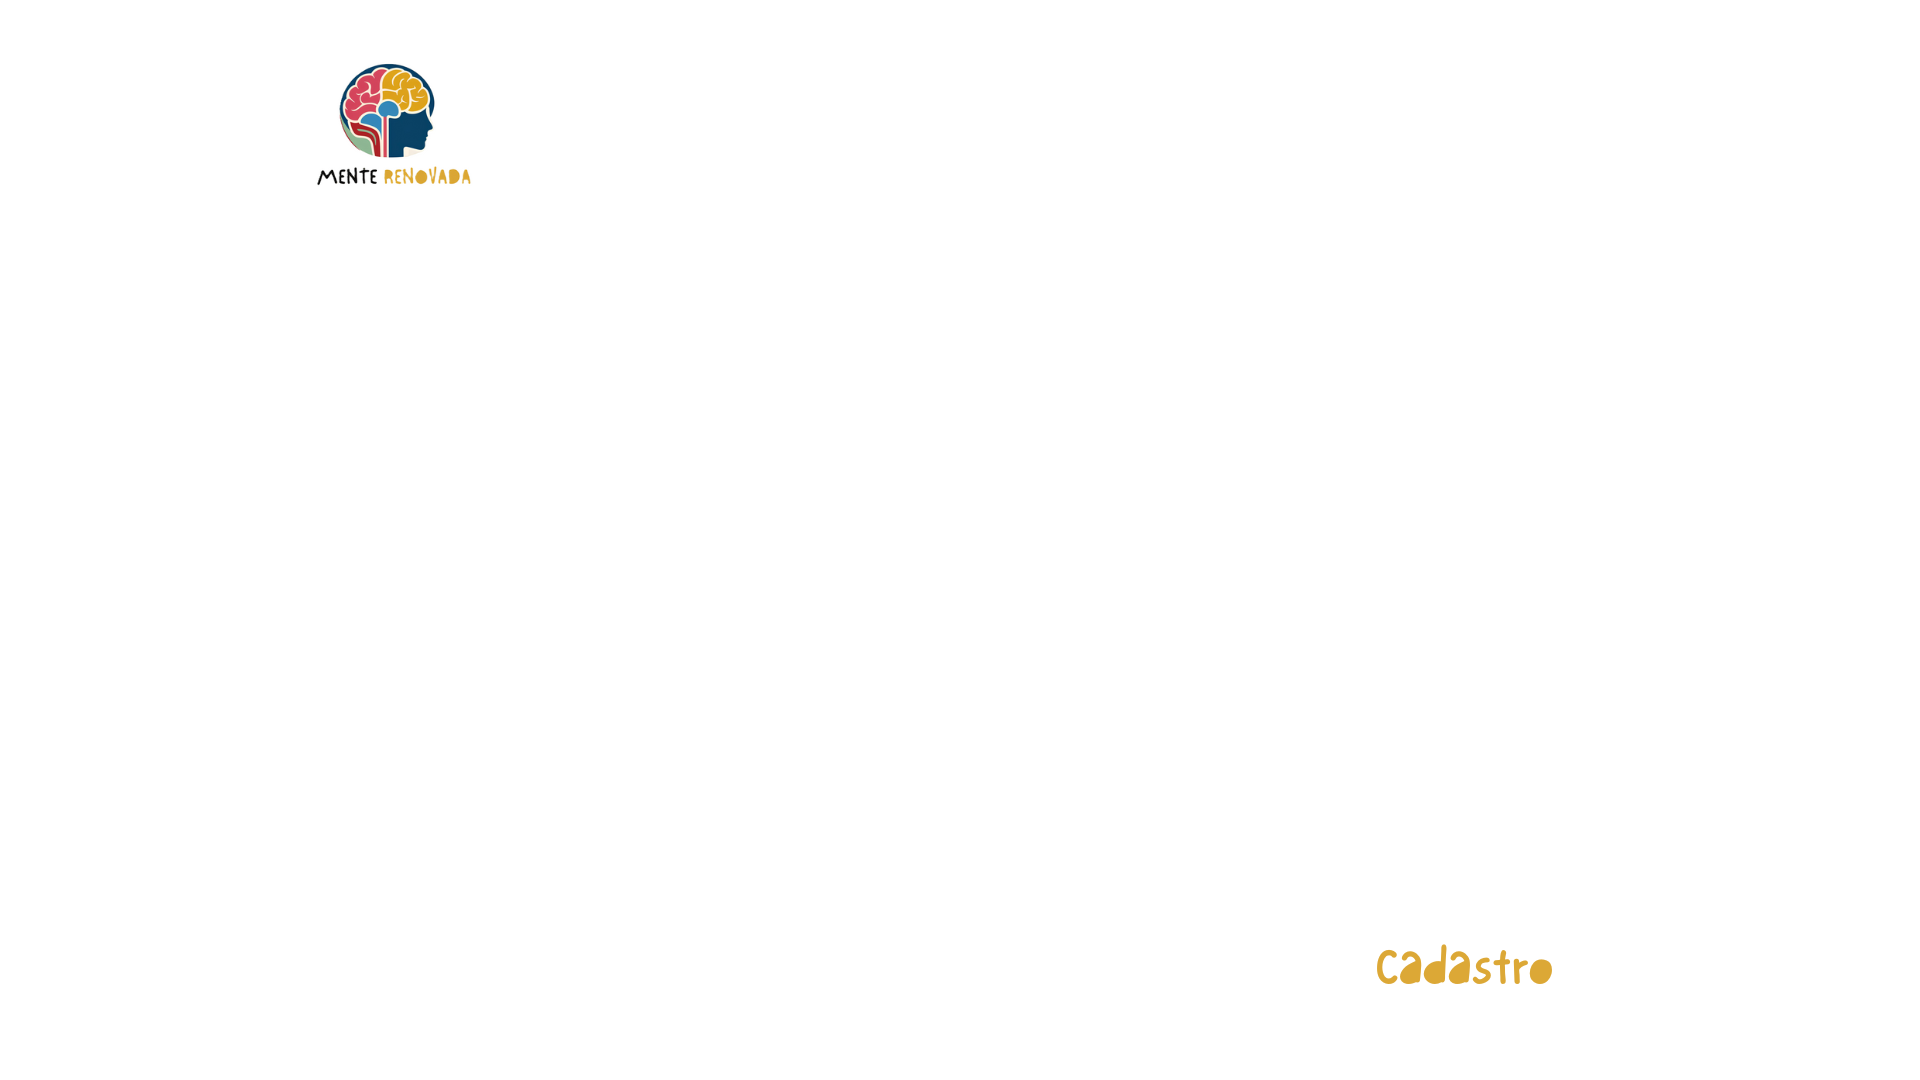
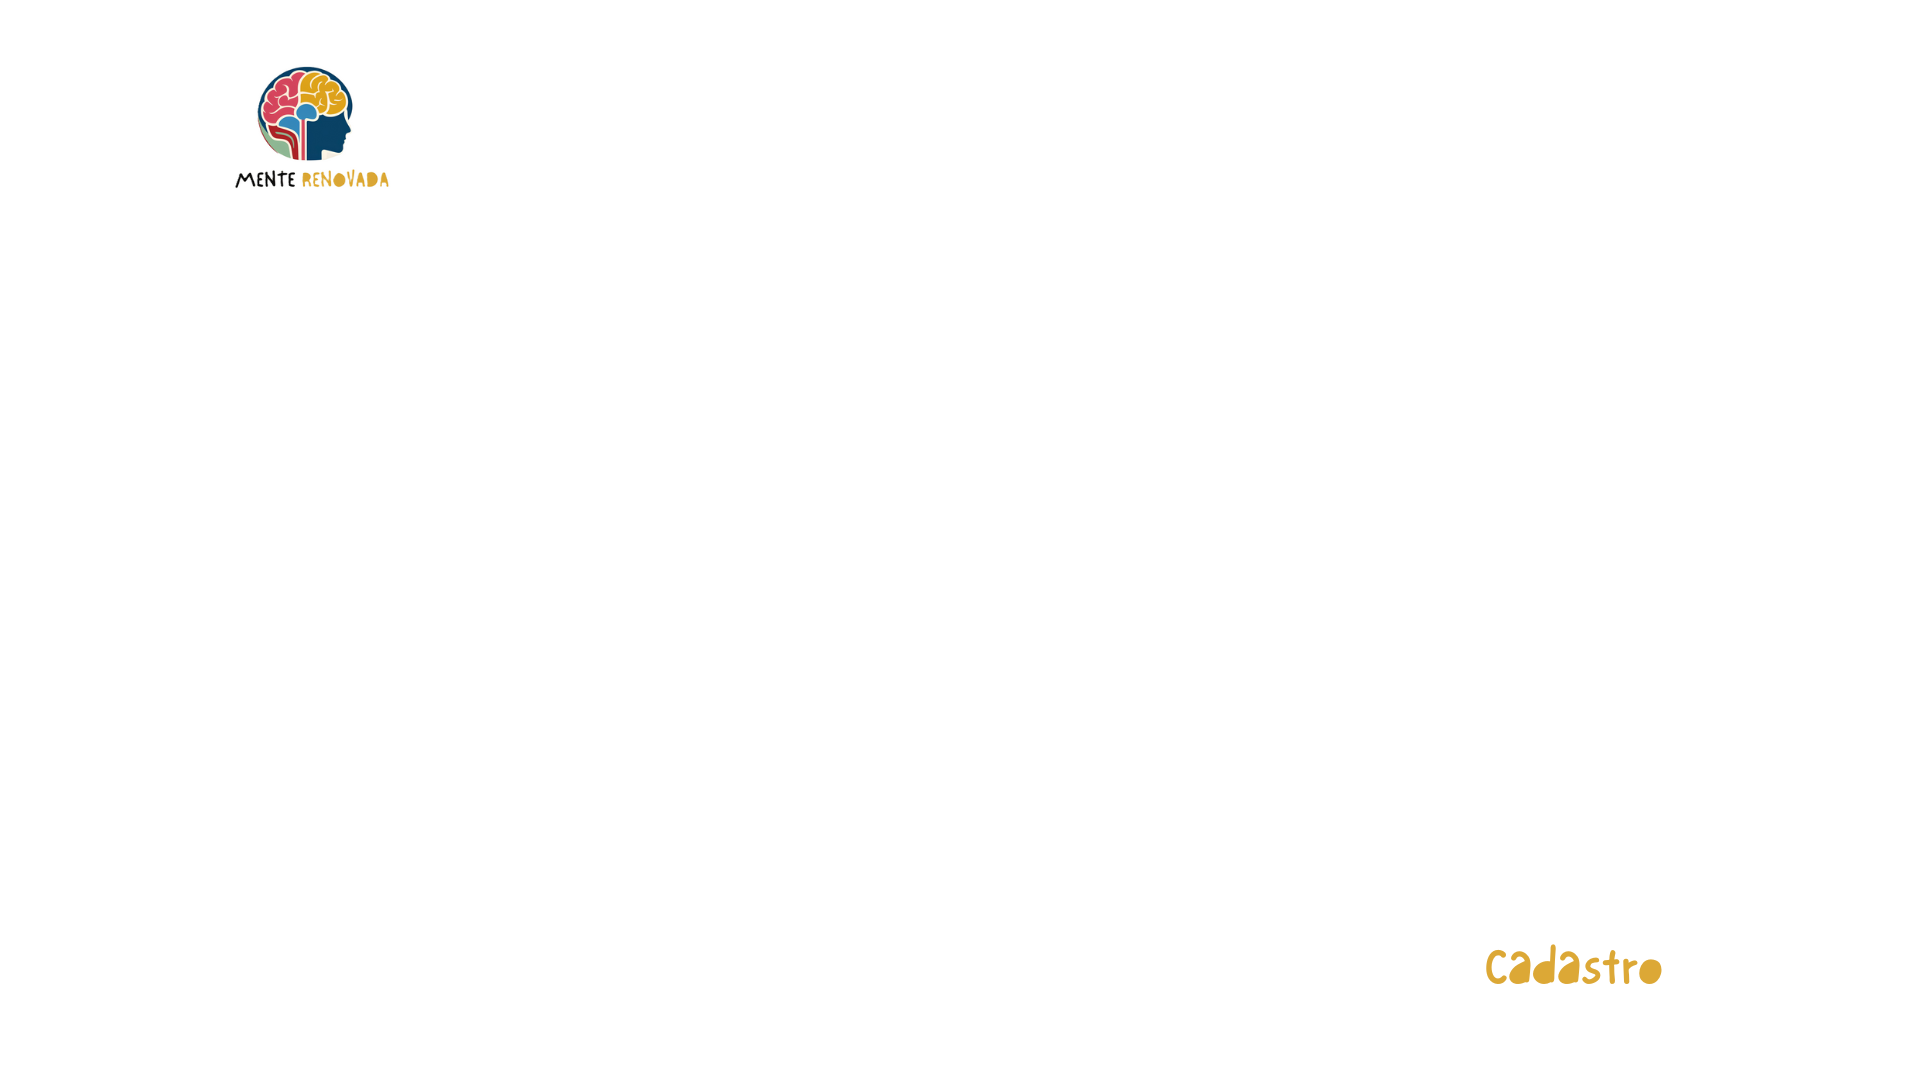
Novas imagens adiiconadas ao projeto e centralização do itens do navbar concluídos

Changed region(s): [[0.125, 0.0611, 0.25, 0.1833], [0.7188, 0.8556, 0.875, 0.9167]]

diff --git a/menu_publico.php b/menu_publico.php
@@ -81,50 +81,46 @@ if (isset($_SESSION['login_admin'])) {
   }
 
   body {
-    padding-top: 90px;
+    padding-top: 120px;
   }
+
 
   .navbar {
     position: fixed;
     top: 0;
-    left: 0;
     width: 100%;
-    height: 90px;
-    display: grid;
-    grid-template-columns: 1fr auto 1fr;
-    align-items: center;
     background-color: rgba(255, 255, 255, 0.95);
     box-shadow: 0 2px 6px rgba(0, 0, 0, 0.1);
-    padding: 0 2rem;
     z-index: 1000;
+    padding: 0.5rem 1rem;
   }
 
-  .navbar-right {
-    display: flex;
-    align-items: center;
-    justify-content: flex-end;
-    padding-left: 2rem;
-    /* espaçamento à esquerda do ícone */
-  }
 
-  .navbar-left,
-
-  /* Logo animação */
-  .navbar-left a img {
-    height: 80px;
+  /* LOGO DA MENTE RENOVADA */
+  .navbar-brand img {
+    height: 90px;
     object-fit: contain;
     transition: transform 0.3s ease-in-out, filter 0.3s ease-in-out;
   }
 
-  .navbar-left a img:hover {
+  .navbar-brand img:hover {
     transform: scale(1.1);
     filter: drop-shadow(0 0 10px #DBA632);
   }
 
-  /* Animação da imagem de Perfil */
+  .nav-link {
+    font-weight: bold;
+    color: #333 !important;
+    transition: color 0.3s;
+  }
+
+  .nav-link:hover {
+    color: #DBA632 !important;
+  }
+
   .perfil-img {
-    width: 40px;
-    height: 40px;
+    width: 50px;
+    height: 50px;
     border-radius: 50%;
     transition: transform 0.3s ease, box-shadow 0.3s ease;
   }
@@ -134,72 +130,22 @@ if (isset($_SESSION['login_admin'])) {
     box-shadow: 0 0 10px rgba(219, 166, 50, 0.5);
   }
 
-
-  .navbar-center {
-    display: flex;
-    justify-content: center;
-  }
-
-  .navbar-center ul {
-    display: flex;
-    gap: 2rem;
-    list-style: none;
-    margin: 0;
-    padding: 0;
-  }
-
-  .navbar-center .nav-link {
-    font-weight: bold;
-    color: #333 !important;
-    text-decoration: none;
-    transition: color 0.3s;
-  }
-
-  .navbar-center .nav-link:hover {
-    color: #DBA632 !important;
-  }
-
-  .nav-buttons {
-    display: flex;
-    align-items: center;
-    gap: 1rem;
-  }
-
-  /* Animação do botão de login */
+  .registrar-text,
   .login-text {
     font-size: 15px;
-    background-color: white;
-    color: #DBA632;
     padding: 0.6rem 1.2rem;
     border-radius: 160px;
     border: 2px solid #DBA632;
     display: flex;
     align-items: center;
     gap: 0.4rem;
-    transition: all 0.3s ease-in-out;
     font-weight: bold;
+    transition: all 0.3s ease-in-out;
   }
 
-  .login-text:hover {
+  .registrar-text {
     background-color: #DBA632;
     color: white;
-    transform: scale(1.05);
-    box-shadow: 0 0 10px rgba(219, 166, 50, 0.5);
-  }
-
-  /* Animação do botão registre-se */
-  .registrar-text {
-    font-size: 15px;
-    background-color:  #DBA632;
-    color: white;
-    padding: 0.6rem 1.2rem;
-    border-radius: 160px;
-    border: 2px solid #DBA632;
-    display: flex;
-    align-items: center;
-    gap: 0.4rem;
-    transition: all 0.3s ease-in-out;
-    font-weight: bold;
   }
 
   .registrar-text:hover {
@@ -209,132 +155,120 @@ if (isset($_SESSION['login_admin'])) {
     box-shadow: 0 0 10px rgba(219, 166, 50, 0.5);
   }
 
-  .navbar-right img {
-    border-radius: 50%;
-    width: 50px;
-    height: 50px;
-    object-fit: cover;
+  .login-text {
+    background-color: white;
+    color: #DBA632;
   }
 
-  /* Responsivo */
-  @media (max-width: 768px) {
-    .navbar {
-      grid-template-columns: 1fr auto 1fr;
-      flex-wrap: wrap;
-      height: auto;
-      padding: 1rem;
+  .login-text:hover {
+    background-color: #DBA632;
+    color: white;
+    transform: scale(1.05);
+    box-shadow: 0 0 10px rgba(219, 166, 50, 0.5);
+  }
+
+  /* RESPONSIVIDADE */
+  @media (max-width: 991.98px) {
+    .navbar-collapse {
+      display: flex;
+      flex-direction: column;
+      align-items: center;
+      background-color: white;
+      padding: 2rem 1rem;
+      border-radius: 12px;
+      margin-top: 1rem;
     }
 
-    .navbar-center ul {
-      flex-direction: column;
+    .navbar-brand img {
+      height: 40px;
+      margin-left: 1rem;
+    }
+
+    .navbar-nav {
+      flex-direction: column !important;
+      align-items: center;
       gap: 1rem;
     }
 
     .nav-buttons {
-      flex-direction: column;
+      flex-direction: column !important;
+      gap: 0.8rem;
+      margin-top: 1.5rem;
+      width: 100%;
+      align-items: center;
+    }
+
+    .registrar-text,
+    .login-text {
+      width: 100%;
+      justify-content: center;
+      font-size: 14px;
+      padding: 0.6rem 1rem;
+    }
+
+    .navbar-toggler {
+      margin-right: 1rem;
+    }
+
+    .nav-link {
+      font-size: 16px;
     }
   }
-
-  /* Centraliza o conteúdo do modal */
-.modal-content {
-  border-radius: 20px;
-  padding: 2rem;
-  backdrop-filter: blur(5px);
-}
-
-/* Imagem da logo */
-.modal-body img {
-  max-height: 80px;
-  margin-bottom: 1rem;
-}
-
-/* Estiliza os campos de input */
-.modal-body .form-control {
-  border-radius: 30px;
-  padding: 0.8rem 1.2rem;
-  font-size: 1rem;
-  background-color: rgba(255, 255, 255, 0.85);
-}
-
-/* Estiliza os ícones */
-.input-group-text {
-  border-radius: 30px 0 0 30px;
-  background-color: #DBA632;
-  color: white;
-  border: none;
-}
-
-/* Botão de entrar */
-.modal-body button.btn {
-  border-radius: 30px;
-  font-weight: bold;
-  padding: 0.6rem 1.5rem;
-  transition: all 0.3s ease;
-}
-
-.modal-body button.btn:hover {
-  opacity: 0.9;
-  transform: scale(1.05);
-}
-
-/* Corrige espaçamento entre campos */
-.modal-body .input-group {
-  margin-bottom: 1.2rem;
-}
-
-/* Link de cadastro */
-.modal-body p a {
-  text-decoration: none;
-  font-weight: bold;
-}
-
 </style>
 
-<nav class="navbar">
-  <!-- LOGO -->
-  <div class="navbar-left">
-    <a href="index.php">
-      <img src="image/MENTE_RENOVADA-LOGO.png" alt="Logo" />
-    </a>
-  </div>
+<!-- NAVBAR -->
+<nav class="navbar navbar-expand-lg navbar-light bg-white mx-auto">
+  <div class="container-fluid">
 
-  <!-- MENU CENTRAL -->
-  <div class="navbar-center">
-    <ul>
-      <li><a class="nav-link" href="index.php">Início</a></li>
-      <li><a class="nav-link" href="sessao.php">Sessões</a></li>
-      <li><a class="nav-link" href="paciente.php">Pacientes</a></li>
-    </ul>
-  </div>
+    <div class="collapse navbar-collapse" id="navbarSupportedContent">
+      <div class="d-flex align-items-center justify-content-between w-100">
 
-  <!-- LOGIN ou FOTO -->
-  <div class="navbar-right">
-    <?php if (!isset($_SESSION['login_admin'])): ?>
-      <div class="nav-buttons">
-        <a class="nav-link registrar-btn" data-bs-toggle="modal" data-bs-target="#modalRegistro">
-          <span class="registrar-text"><i class="bi bi-person-plus-fill"></i> Registre-se</span>
-        </a>
-        <a class="nav-link" data-bs-toggle="modal" data-bs-target="#modalLogin">
-          <span class="login-text"><i class="bi bi-person-fill"></i> Entrar</span>
-        </a>
+        <!-- LOGO-->
+        <div style="width: 120px;">
+          <a class="navbar-brand" href="index.php">
+            <img src="image/MENTE_RENOVADA-LOGO.png" alt="Logo">
+          </a>
+        </div>
+
+        <!-- CONTEÚDO NAVBAR -->
+        <ul class="navbar-nav flex-row justify-content-center align-items-center flex-grow-1 gap-4">
+          <li class="nav-item"><a class="nav-link" href="index.php">Início</a></li>
+          <li class="nav-item"><a class="nav-link" href="sessao.php">Sessões</a></li>
+          <li class="nav-item"><a class="nav-link" href="paciente.php">Pacientes</a></li>
+        </ul>
+
+        <!-- FOTO DE PERFIL -->
+        <div style="width: 180px;" class="d-flex justify-content-end align-items-center gap-3">
+          <?php if (!isset($_SESSION['login_admin'])): ?>
+            <a class="nav-link registrar-btn" data-bs-toggle="modal" data-bs-target="#modalRegistro">
+              <span class="registrar-text" style="width: 150px;"><i class="bi bi-person-plus-fill"></i> Registre-se</span>
+            </a>
+            <a class="nav-link" data-bs-toggle="modal" data-bs-target="#modalLogin">
+              <span class="login-text"><i class="bi bi-person-fill"></i> Entrar</span>
+            </a>
+          <?php else: ?>
+            <a href="perfil_ps.php" title="Meu Perfil">
+              <img src="<?= htmlspecialchars($fotoPerfilPath); ?>" alt="Foto de Perfil" class="perfil-img" />
+            </a>
+          <?php endif; ?>
+        </div>
+
       </div>
-    <?php else: ?>
-      <a href="perfil_ps.php" title="Meu Perfil">
-        <img src="<?php echo htmlspecialchars($fotoPerfilPath); ?>" alt="Foto de Perfil" class="perfil-img" />
-      </a>
-    <?php endif; ?>
-  </div>
+    </div>
+
 </nav>
+
+
 
 
 <!-- Modal de Login -->
 <div class="modal fade" id="modalLogin" tabindex="-1" aria-labelledby="modalLoginLabel" aria-hidden="true">
   <div class="modal-dialog modal-dialog-centered modal-lg">
-    <div class="modal-content border-0" style="background: url('image/tela_login.png') center/cover no-repeat;">
+    <div class="modal-content border-0" style="background: url('image/tela_login4.png') center/cover no-repeat;">
       <div class="modal-body p-0 d-flex flex-column align-items-center justify-content-center" style="padding: 2rem;">
 
         <!-- Formulário de Login -->
-        <form action="menu_publico.php" method="POST" enctype="multipart/form-data" style="width: 100%; max-width: 400px;">
+        <form action="menu_publico.php" method="POST" enctype="multipart/form-data" style="width: 100%; max-width: 400px; margin-top: 70px;">
 
           <!-- Email -->
           <label for="email" class="form-label" style="color: #DBA632;">Email:</label>
@@ -390,11 +324,11 @@ if (isset($_SESSION['login_admin'])) {
 <!-- Modal de Registro -->
 <div class="modal fade" id="modalRegistro" tabindex="-1" aria-labelledby="modalRegistroLabel" aria-hidden="true">
   <div class="modal-dialog modal-dialog-centered modal-lg">
-    <div class="modal-content border-0" style="background: url('image/Cadastro.png') center/cover no-repeat;">
+    <div class="modal-content border-0" style="background: url('image/Cadastro4.png') center/cover no-repeat;">
       <div class="modal-body p-0 d-flex flex-column align-items-center justify-content-center" style="padding: 2rem;">
 
         <!-- Formulário de Registro -->
-        <form action="cadastro.php" method="POST" enctype="multipart/form-data" style="width: 100%; max-width: 400px;">
+        <form action="cadastro.php" method="POST" enctype="multipart/form-data" style="width: 100%; max-width: 400px; margin-top: 60px;">
 
           <!-- Nome -->
           <label for="nome" class="form-label" style="color: #DBA632;">Nome:</label>
